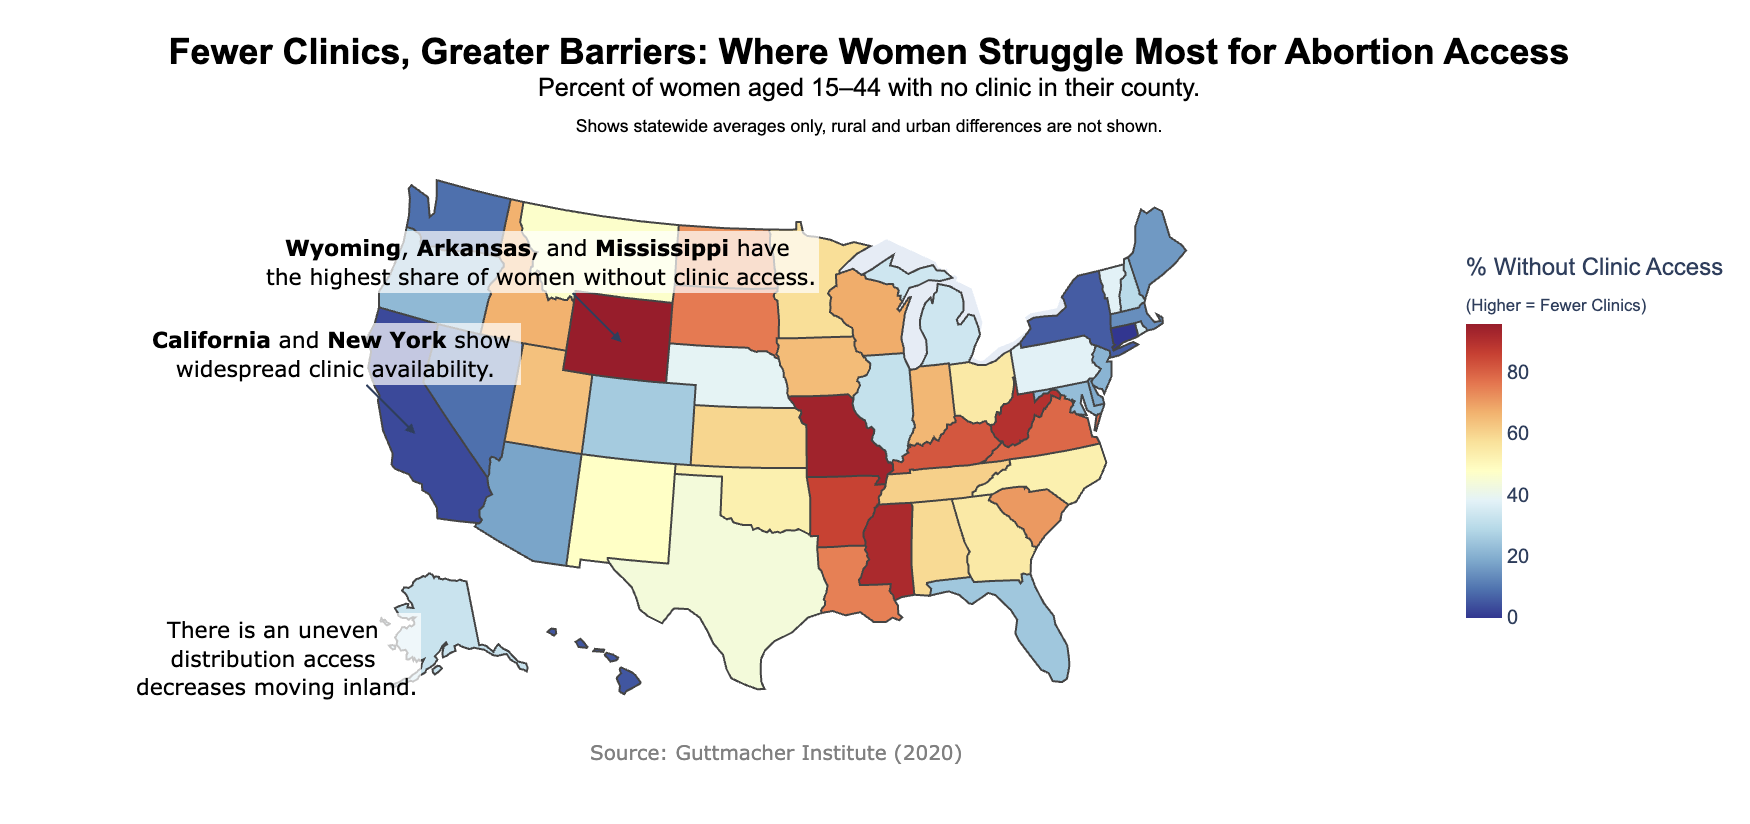
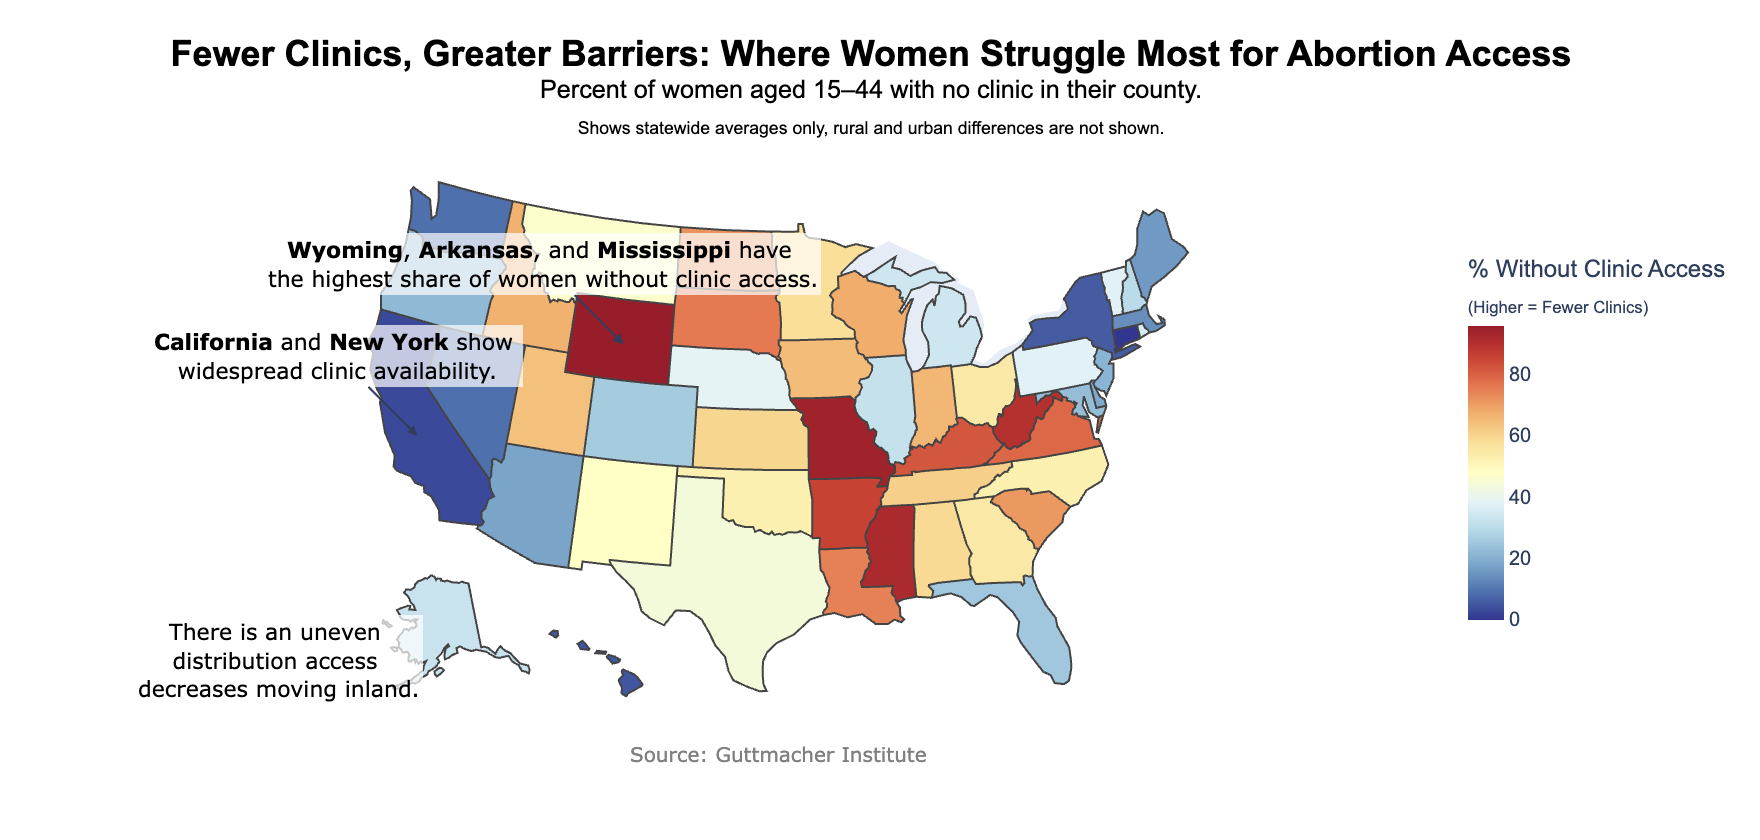
updated plot1 and re-added description

diff --git a/index.html b/index.html
@@ -162,7 +162,7 @@
 
         <figure>
           <img src="images/plot1.png" alt="" />
-          <figcaption>BRIEF CAPTION HERE.</figcaption>
+          <figcaption>Share of women without local abortion clinic access by state in 2020, highlighting geographic disparities in access.</figcaption>
         </figure>
 
         <p>Design Decisions and Rationale:</p>
